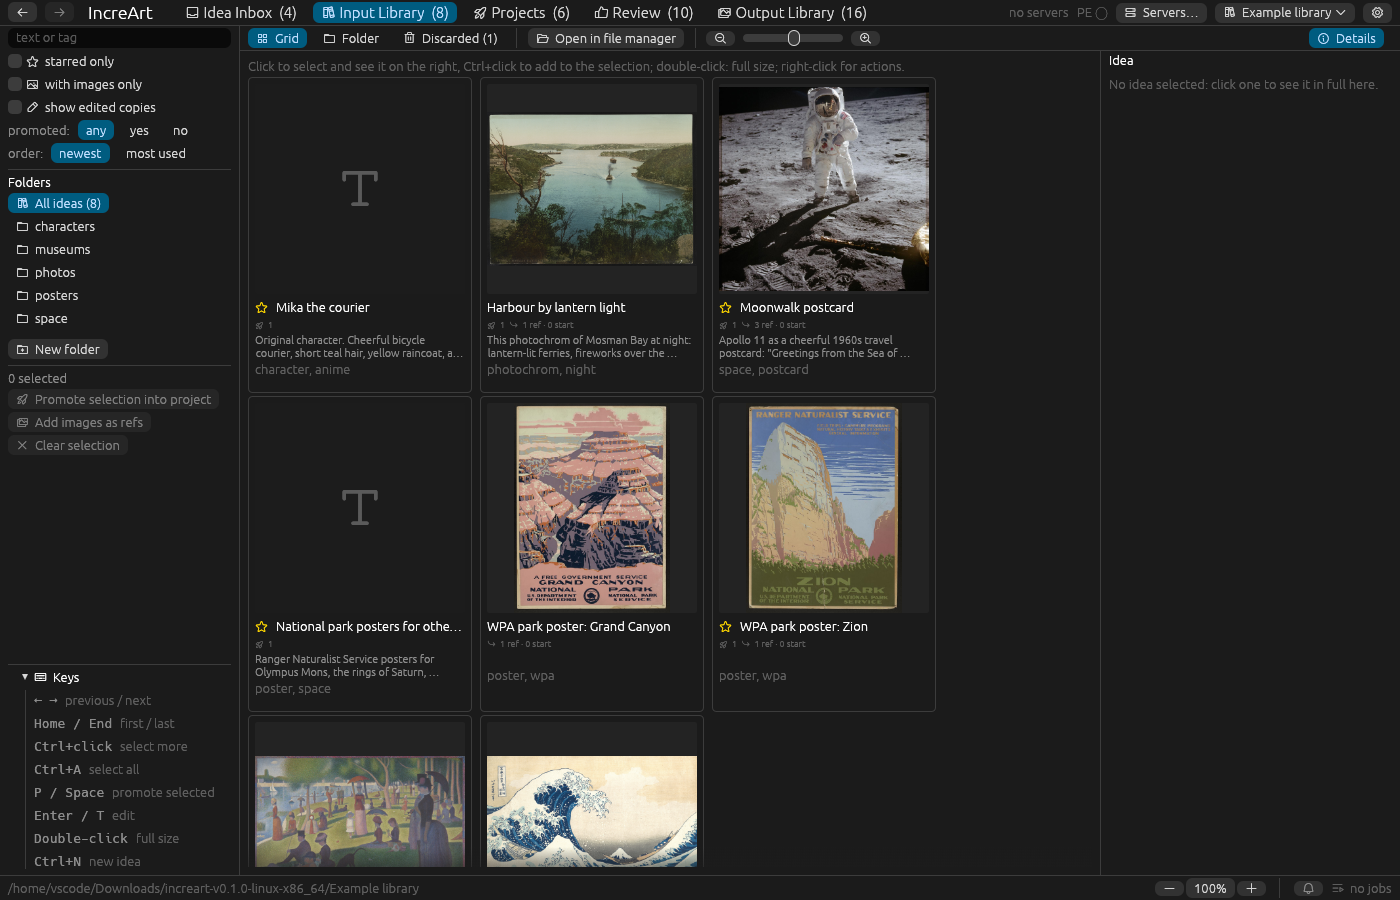
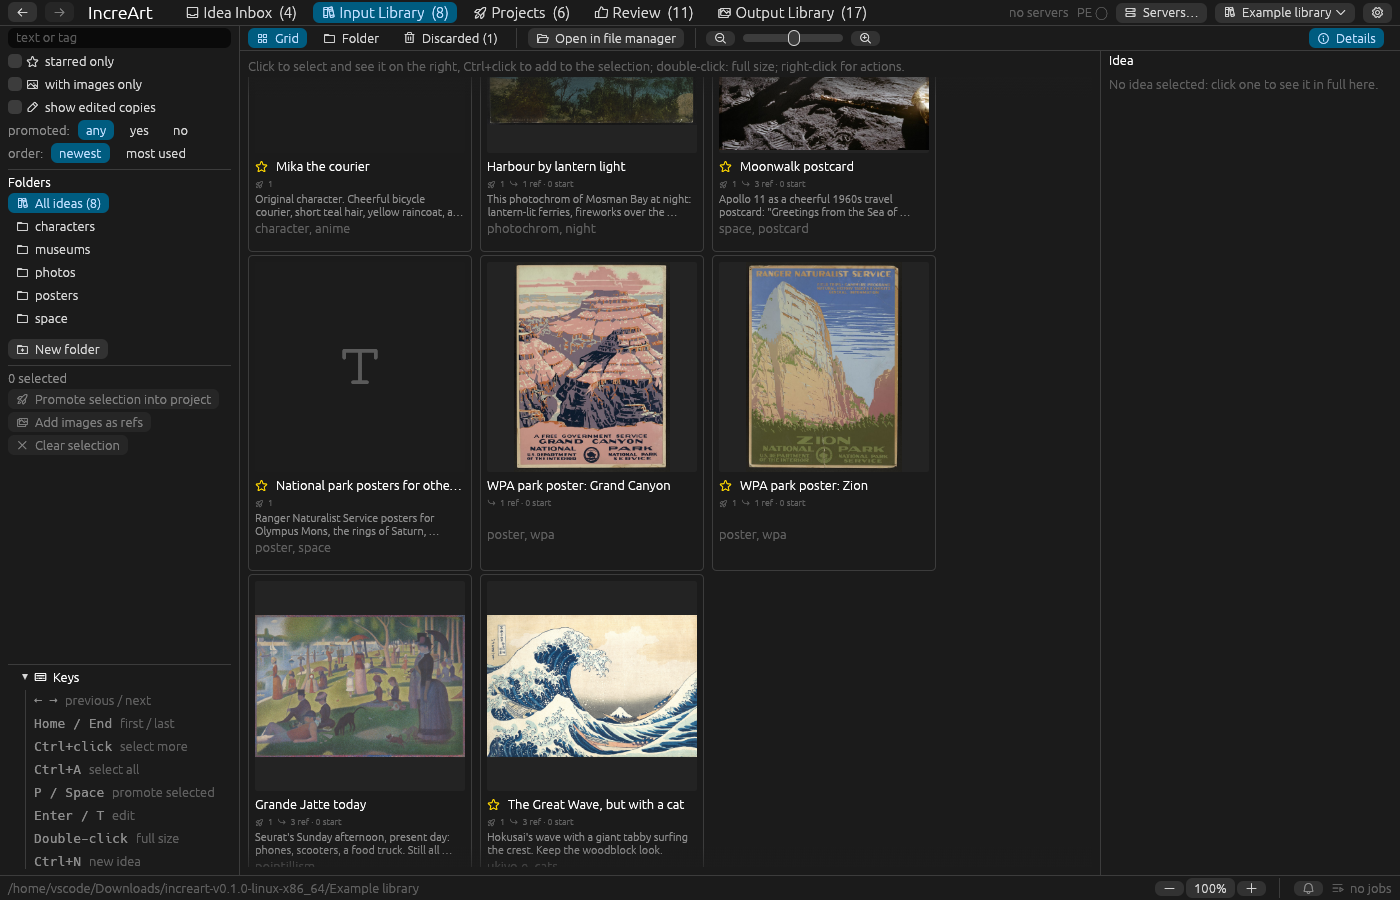
Version line, example library with blanks and style sweeps
- increart --version / -V and the Settings footer show the version, the
  commit built from and its date (build.rs); the release workflow checks
  the tag matches the crate version and that the build isn't dirty; the
  bug template asks for the line.
- Example library: every project's prompt has blanks with prompt
  enhance's suggestions and one picked; three of the six are style
  sweeps (34 images). demo_library asks a rewrite again when it loses a
  blank or image tag, saves the last project's draft, and review puts
  outputs back to unreviewed where the spec says so.
- README screenshots retaken; Generate shows a style sweep.
- Server dialog: the start log's last line on its own row.

diff --git a/crates/increart-gui-core/examples/demo_library.rs b/crates/increart-gui-core/examples/demo_library.rs
@@ -2,9 +2,9 @@
 //! `scripts/demo-library.json`: imports the public-domain source images
 //! (`scripts/demo-sources.py`) as ideas, creates the projects, then works
 //! each project through the app's own Generate form and prompt enhance (the
-//! reducer and runtime, no window): a PE rewrite of the prompt, PE's
-//! suggestions for its blanks, or a style sweep with PE's values and
-//! enhanced style prompts. Then it queues the runs on a server preset and
+//! reducer and runtime, no window): optionally a PE rewrite of the prompt,
+//! then PE's suggestions for its blanks (the first picked; every project
+//! has some), and for a style sweep its enhanced style prompts. Then it queues the runs on a server preset and
 //! waits for them. `review` applies the spec's verdicts afterwards.
 //!
 //!     cargo run --release -p increart-gui-core --example demo_library -- \
@@ -15,7 +15,8 @@
 //! The config gives the server preset (its chat server does prompt
 //! enhance), the model presets and PE's settings; it is never written.
 //! Verdicts are per project, `g` / `n` / `b` (`-`: left unreviewed), over
-//! its outputs in run then seed order.
+//! its outputs in run then seed order (`review` again puts each back as
+//! the spec says).
 
 use std::collections::BTreeMap;
 use std::fs;
@@ -261,49 +262,57 @@ fn build(config: &Path, preset: &str, spec: &Value, sources: &Path, library: &Pa
         }
         app.send(Msg::Generate(f));
 
-        match s(p, "pe") {
-            "rewrite" => {
+        // a rewrite first, asked again (at most 4 times) when it loses one of
+        // the prompt's blanks or <imageN> tags; else the prompt as written
+        if s(p, "pe") == "rewrite" {
+            let original = app.state.generate.prompt.clone();
+            for attempt in 1..=4 {
                 app.send(Msg::PeRewrite(PeTarget::Prompt));
                 let answered = app.pump(Duration::from_secs(600), |s| {
                     s.pe.text.as_ref().is_some_and(|t| t.waiting.is_none() && (!t.text.is_empty() || t.error.is_some()))
                 });
                 let t = app.state.pe.text.clone().expect("rewrite window");
                 assert!(answered && t.error.is_none(), "rewrite failed: {:?}", t.error);
-                app.log(&format!("rewritten: {}", t.text));
-                app.send(Msg::PeTextClose(PeUse::Use));
-            }
-            "blanks" | "styles" => {
-                // every blank's suggestions, then the first offered picked
-                let texts: Vec<String> = if styles.is_empty() {
-                    vec![app.state.generate.prompt.clone()]
-                } else {
-                    let list = &app.state.prompt_presets;
-                    increart_core::prompts::sweep_presets(list, &app.state.generate.sweep)
-                        .iter()
-                        .map(|(_, pr)| pr.prompt.clone())
-                        .collect()
-                };
-                let slots = increart_core::prompts::slot_names(texts.iter().map(String::as_str));
-                let keys: Vec<BlankKey> = slots.iter().map(|n| BlankKey { style: None, slot: n.clone() }).collect();
-                app.send(Msg::PeSuggest(keys.clone()));
-                assert!(app.pump(Duration::from_secs(900), App::pe_idle), "suggestions never came");
-                let mut f = app.state.generate.clone();
-                for k in &keys {
-                    let shown = app.state.blank_shown(k).cloned().unwrap_or_default();
-                    let v = shown.first().unwrap_or_else(|| panic!("no suggestions for {{{}}}", k.slot));
-                    app.log(&format!("{{{}}}: {shown:?} → {v}", k.slot));
-                    f.sweep.slots.insert(k.slot.clone(), v.clone());
+                let lost = increart_core::pe::lost_tags(&original, &t.text);
+                app.log(&format!("rewritten ({attempt}): {}", t.text));
+                if lost.is_empty() {
+                    app.send(Msg::PeTextClose(PeUse::Use));
+                    break;
                 }
-                app.send(Msg::Generate(f));
-                if !styles.is_empty() {
-                    app.send(Msg::PeStyleEnhance(vec![]));
-                    assert!(app.pump(Duration::from_secs(900), App::pe_idle), "style prompts never came");
-                    for sp in &app.state.generate.sweep.style_prompts {
-                        app.log(&format!("{} (enhanced {}): {}", sp.preset.name, sp.enhanced, sp.prompt));
-                    }
-                }
+                app.log(&format!("the rewrite lost {lost:?}; not used"));
+                app.send(Msg::PeTextClose(PeUse::Discard));
             }
-            _ => {}
+        }
+        // every blank's suggestions (the chips, kept in the project's draft),
+        // then the first offered picked
+        let mut texts = vec![app.state.generate.prompt.clone()];
+        if !styles.is_empty() {
+            let list = &app.state.prompt_presets;
+            texts.extend(
+                increart_core::prompts::sweep_presets(list, &app.state.generate.sweep)
+                    .iter()
+                    .map(|(_, pr)| pr.prompt.clone()),
+            );
+        }
+        let slots = increart_core::prompts::slot_names(texts.iter().map(String::as_str));
+        assert!(!slots.is_empty(), "{name}: no {{blanks}} in {texts:?}");
+        let keys: Vec<BlankKey> = slots.iter().map(|n| BlankKey { style: None, slot: n.clone() }).collect();
+        app.send(Msg::PeSuggest(keys.clone()));
+        assert!(app.pump(Duration::from_secs(900), App::pe_idle), "suggestions never came");
+        let mut f = app.state.generate.clone();
+        for k in &keys {
+            let shown = app.state.blank_shown(k).cloned().unwrap_or_default();
+            let v = shown.first().unwrap_or_else(|| panic!("no suggestions for {{{}}}", k.slot));
+            app.log(&format!("{{{}}}: {shown:?} → {v}", k.slot));
+            f.sweep.slots.insert(k.slot.clone(), v.clone());
+        }
+        app.send(Msg::Generate(f));
+        if !styles.is_empty() {
+            app.send(Msg::PeStyleEnhance(vec![]));
+            assert!(app.pump(Duration::from_secs(900), App::pe_idle), "style prompts never came");
+            for sp in &app.state.generate.sweep.style_prompts {
+                app.log(&format!("{} (enhanced {}): {}", sp.preset.name, sp.enhanced, sp.prompt));
+            }
         }
         let before = app.state.index.projects.iter().map(|p| p.runs.len()).sum::<usize>();
         app.send(Msg::QueueGenerate);
@@ -322,6 +331,9 @@ fn build(config: &Path, preset: &str, spec: &Value, sources: &Path, library: &Pa
         s.index.projects.iter().map(|p| p.outputs.len()).sum::<usize>() >= expected
             && s.index.projects.iter().all(|p| p.runs.iter().all(|r| p.pending_seeds(r).next().is_none()))
     });
+    // the last project's draft saved too (leaving its Generate form)
+    app.send(Msg::SelectProjectFolder(None));
+    assert!(app.pump(Duration::from_secs(10), |s| s.saving == 0), "the last draft wasn't saved");
     let errors = app.errors();
     assert!(done, "not finished: {errors:?}");
     app.log(&format!("{expected} images; messages: {errors:?}"));
@@ -343,12 +355,14 @@ fn review(spec: &Value, library: &Path) {
         });
         for (o, v) in outputs.zip(verdicts.chars()) {
             let verdict = match v {
-                'g' => Verdict::Good,
-                'n' => Verdict::Neutral,
-                'b' => Verdict::Bad,
-                _ => continue,
+                'g' => Some(Verdict::Good),
+                'n' => Some(Verdict::Neutral),
+                'b' => Some(Verdict::Bad),
+                _ => None,
             };
-            lib.review_output(&o.path, Some(verdict)).expect("review");
+            if o.verdict != verdict {
+                lib.review_output(&o.path, verdict).expect("review");
+            }
         }
     }
 }

diff --git a/crates/increart-gui/src/startup.rs b/crates/increart-gui/src/startup.rs
@@ -634,16 +634,6 @@ fn progress(ui: &mut egui::Ui, st: &AppState, d: &ServerDialog, out: &mut Vec<Ms
                     ui.spinner();
                     let what = if s.is_started() { "starting" } else { "connecting" };
                     ui.label(format!("{what} — {secs:.0} s"));
-                    // a fixed width: a growing line (KoboldCpp's ". . .") would
-                    // widen the dialog with each character
-                    let size = egui::vec2(320.0, ui.spacing().interact_size.y);
-                    ui.allocate_ui_with_layout(size, egui::Layout::left_to_right(egui::Align::Center), |ui| {
-                        ui.set_min_size(size);
-                        if let Some(line) = st.start_log.get(i).filter(|l| !l.is_empty()) {
-                            ui.add(egui::Label::new(RichText::new(line).weak().monospace()).truncate())
-                                .on_hover_text(format!("from the server's log\n{line}"));
-                        }
-                    });
                 }
                 ServerProgress::Up => {
                     ui.colored_label(GOOD, ic(ph::CHECK_CIRCLE, "up"));
@@ -656,6 +646,19 @@ fn progress(ui: &mut egui::Ui, st: &AppState, d: &ServerDialog, out: &mut Vec<Ms
                 crate::projects::log_button(ui, log_file(s), out);
             }
         });
+        // the log's last line on its own line, cut to the dialog's width: on the
+        // row above it would widen the dialog off centre; kept while opening so
+        // the dialog doesn't jump when the first line arrives
+        if matches!(p, ServerProgress::Opening) {
+            ui.horizontal(|ui| {
+                ui.add_space(16.0);
+                ui.set_min_height(ui.spacing().interact_size.y);
+                if let Some(line) = st.start_log.get(i).filter(|l| !l.is_empty()) {
+                    ui.add(egui::Label::new(RichText::new(line).weak().monospace()).truncate())
+                        .on_hover_text(format!("from the server's log\n{line}"));
+                }
+            });
+        }
     }
     // the chat server: on its own, never holding the sd-servers up
     if let Some(c) = d.draft.chat() {

diff --git a/crates/increart-gui/src/main.rs b/crates/increart-gui/src/main.rs
@@ -35,8 +35,19 @@ use eframe::egui;
 use increart_core::config::Config;
 use increart_gui_core::StartupServers;
 
+/// `increart 0.1.0 (abc1234, 2026-10-29)`: the version, and the commit built
+/// from with its date (see build.rs).
+pub fn version() -> String {
+    let v = env!("CARGO_PKG_VERSION");
+    match env!("INCREART_COMMIT") {
+        "" => format!("increart {v}"),
+        c => format!("increart {v} ({c})"),
+    }
+}
+
 const USAGE: &str = "\
 usage: increart [--library <folder>|last] [--servers <preset>|last | --no-servers]
+       increart --version
 
   --library <folder>   open this library (skips the library screen)
   --library last       the most recently opened library
@@ -44,6 +55,7 @@ usage: increart [--library <folder>|last] [--servers <preset>|last | --no-server
                        the main window opens while the servers start)
   --servers last       the preset opened last
   --no-servers         continue without servers
+  -V, --version        print the version and the commit built from
 
 A screen is still shown when its argument doesn't work (not a library, no
 such preset, sd-server missing), saying why.";
@@ -63,6 +75,10 @@ fn parse_args() -> Result<Startup, String> {
         match a.as_str() {
             "-h" | "--help" => {
                 println!("{USAGE}");
+                std::process::exit(0);
+            }
+            "-V" | "--version" => {
+                println!("{}", version());
                 std::process::exit(0);
             }
             "--library" => s.library = Some(value("--library")?),

diff --git a/crates/increart-gui/build.rs b/crates/increart-gui/build.rs
@@ -1,0 +1,30 @@
+//! Names the commit the app is built from (`INCREART_COMMIT`): its short
+//! hash, `-dirty` with uncommitted changes, and its date. Empty when built
+//! outside a git checkout (e.g. from a source archive).
+
+use std::process::Command;
+
+fn git(args: &[&str]) -> Option<String> {
+    let out = Command::new("git").args(args).output().ok()?;
+    let s = String::from_utf8(out.stdout).ok()?;
+    out.status.success().then(|| s.trim().to_owned())
+}
+
+fn main() {
+    // again when HEAD moves or the index changes (a commit, a checkout, a stage)
+    if let Some(dir) = git(&["rev-parse", "--git-dir"]) {
+        for f in ["HEAD", "index", "refs"] {
+            println!("cargo:rerun-if-changed={dir}/{f}");
+        }
+    }
+    println!("cargo:rerun-if-changed=build.rs");
+    let commit = git(&["log", "-1", "--format=%h %cs"])
+        .filter(|s| !s.is_empty())
+        .map(|s| {
+            let (hash, date) = s.split_once(' ').unwrap_or((&s, ""));
+            let dirty = git(&["status", "--porcelain", "--untracked-files=no"]).is_some_and(|s| !s.is_empty());
+            format!("{hash}{}, {date}", if dirty { "-dirty" } else { "" })
+        })
+        .unwrap_or_default();
+    println!("cargo:rustc-env=INCREART_COMMIT={commit}");
+}

diff --git a/crates/increart-gui/src/settings.rs b/crates/increart-gui/src/settings.rs
@@ -6,7 +6,7 @@ use increart_core::notify::{self, AlertRule, Notifications, Sound};
 use increart_gui_core::state::SettingsTab;
 use increart_gui_core::{AppState, Msg};
 
-use crate::widgets::{BAD, GOOD, dialog_buttons, ic, ph};
+use crate::widgets::{BAD, GOOD, dialog_footer, ic, ph};
 
 pub fn window(ctx: &egui::Context, st: &AppState, out: &mut Vec<Msg>) {
     if !st.settings_open {
@@ -32,7 +32,19 @@ pub fn window(ctx: &egui::Context, st: &AppState, out: &mut Vec<Msg>) {
             SettingsTab::Library => library(ui, st, out),
         }
         ui.add_space(8.0);
-        dialog_buttons(ui, |ui| ui.button("Close   Esc").clicked())
+        // the version, for bug reports
+        dialog_footer(
+            ui,
+            |ui| {
+                let v = crate::version();
+                ui.label(RichText::new(&v).weak());
+                if ui.small_button(ph::COPY).on_hover_text("Copy the version").clicked() {
+                    ui.ctx().copy_text(v);
+                }
+            },
+            |ui| ui.button("Close   Esc").clicked(),
+        )
+        .1
     });
     if n != st.config.notifications {
         out.push(Msg::SetNotifications(n));

diff --git a/crates/increart-gui/src/tour.rs b/crates/increart-gui/src/tour.rs
@@ -1334,11 +1334,9 @@ impl Tour {
             "R2-review-compare" => vec![Msg::ReviewView(ReviewView::Single), Msg::ReviewCursor(0), Msg::Compare],
             "R3-generate" => {
                 let mut v = vec![Msg::Compare, Msg::Tab(Tab::Projects), Msg::ProjectsTab(ProjectsTab::Generate)];
-                if let Some(p) = st.index.projects.iter().find(|p| p.name() == "olympus-mons") {
+                // its draft: a style sweep with prompt enhance's suggestions
+                if let Some(p) = st.index.projects.iter().find(|p| p.name() == "great-wave-cat") {
                     v.push(Msg::SelectProject(p.project.id.clone()));
-                    if let Some(r) = p.runs.first() {
-                        v.push(Msg::RunInGenerate(r.id.clone()));
-                    }
                 }
                 v
             }

diff --git a/README.md b/README.md
@@ -37,8 +37,8 @@ Every image keeps the recipe that made it.
 
 | | |
 |---|---|
-| ![A/B compare of two generated images side by side](docs/readme/review-compare.png) | ![The Generate form with two poster references](docs/readme/generate.png) |
-| **A/B compare** in Review | **Generate**, with references |
+| ![A/B compare of two generated images side by side](docs/readme/review-compare.png) | ![The Generate form: a style sweep with prompt enhance's suggestions for its blanks](docs/readme/generate.png) |
+| **A/B compare** in Review | **Generate**: a style sweep, with suggested values |
 | ![Output library with an image's lineage](docs/readme/output-lineage.png) | ![Input library of kept ideas](docs/readme/input-library.png) |
 | **Output library** and lineage | **Input library** of kept ideas |
 
@@ -88,10 +88,12 @@ on those platforms yet. Reports are welcome.
 
 Each release zip has an `Example library` folder beside the app: a small
 library to explore before you generate anything, with ideas, six projects
-and 30 reviewed and unreviewed outputs. It's in the start-up list the first
-time you run IncreArt. It's an ordinary library, so changes you make to it
-are saved, and you can remove it from the list with ×. It takes about 45 MB;
-the Windows zip's copy is about 90 MB, because Windows can't unzip the
+(three of them style sweeps) and 34 reviewed and unreviewed outputs. Each
+project's prompt has blanks, with prompt enhance's suggestions for them and
+one picked. It's in the start-up list the first time you run IncreArt. It's
+an ordinary library, so changes you make to it are saved, and you can remove
+it from the list with ×. It takes about 50 MB; the Windows zip's copy is
+about 95 MB, because Windows can't unzip the
 links it uses elsewhere, so it holds copies instead.
 
 Its source images come from the Library of Congress, The Metropolitan Museum

diff --git a/docs/setup/01-build-increart.md b/docs/setup/01-build-increart.md
@@ -118,7 +118,9 @@ libraries (dav1d); that is **not covered** here.
 ```
 
 Prints `usage: increart [--library <folder>|last] [--servers <preset>|last | --no-servers]`
-and exits 0. (`--help` is parsed before any window opens, so it works without
+and exits 0. `--version` prints `increart 0.1.0 (<commit>, <date>)`; the
+commit has `-dirty` when the tree had uncommitted changes, and is left out
+when built outside a git checkout. (`--help` is parsed before any window opens, so it works without
 a display.)
 
 **If it fails:**
@@ -150,6 +152,7 @@ Command line (from `main.rs`):
 | `--servers <preset>` | open that server preset (name, any case); the main window opens while servers start |
 | `--servers last` | the preset opened last |
 | `--no-servers` | continue without servers |
+| `-V`, `--version` | print the version and the commit built from, e.g. `increart 0.1.0 (b6bd961, 2026-10-29)`, and exit (Settings shows the same line) |
 
 A screen is still shown when its argument doesn't work (no `library.rsn`,
 unknown preset, sd-server or models folder missing), with the reason. An

diff --git a/docs/DESIGN.md b/docs/DESIGN.md
@@ -2745,7 +2745,10 @@ Durations read as "0.84 s", "34.2 s", "4 min 12 s", "2 h 05 min".
 **Settings** (⚙ at the far right of the top bar; a modal, changes apply as made) has two tabs:
 **Library** (the open library's store format and its conversion, see Image
 stores) and **Notifications**, with three
-independent alerts. The two conditions below each sound when its condition starts holding, then
+independent alerts. Its footer shows the version line (`increart 0.1.0
+(b6bd961, 2026-10-29)`: the crate version, then the commit built from and
+its date, from `build.rs`; also `increart --version`) with a copy button,
+for bug reports. The two conditions below each sound when its condition starts holding, then
 again every *repeat* minutes while it still holds; once the condition ends it
 is reset, and the next time it holds it counts again from the start.
 
